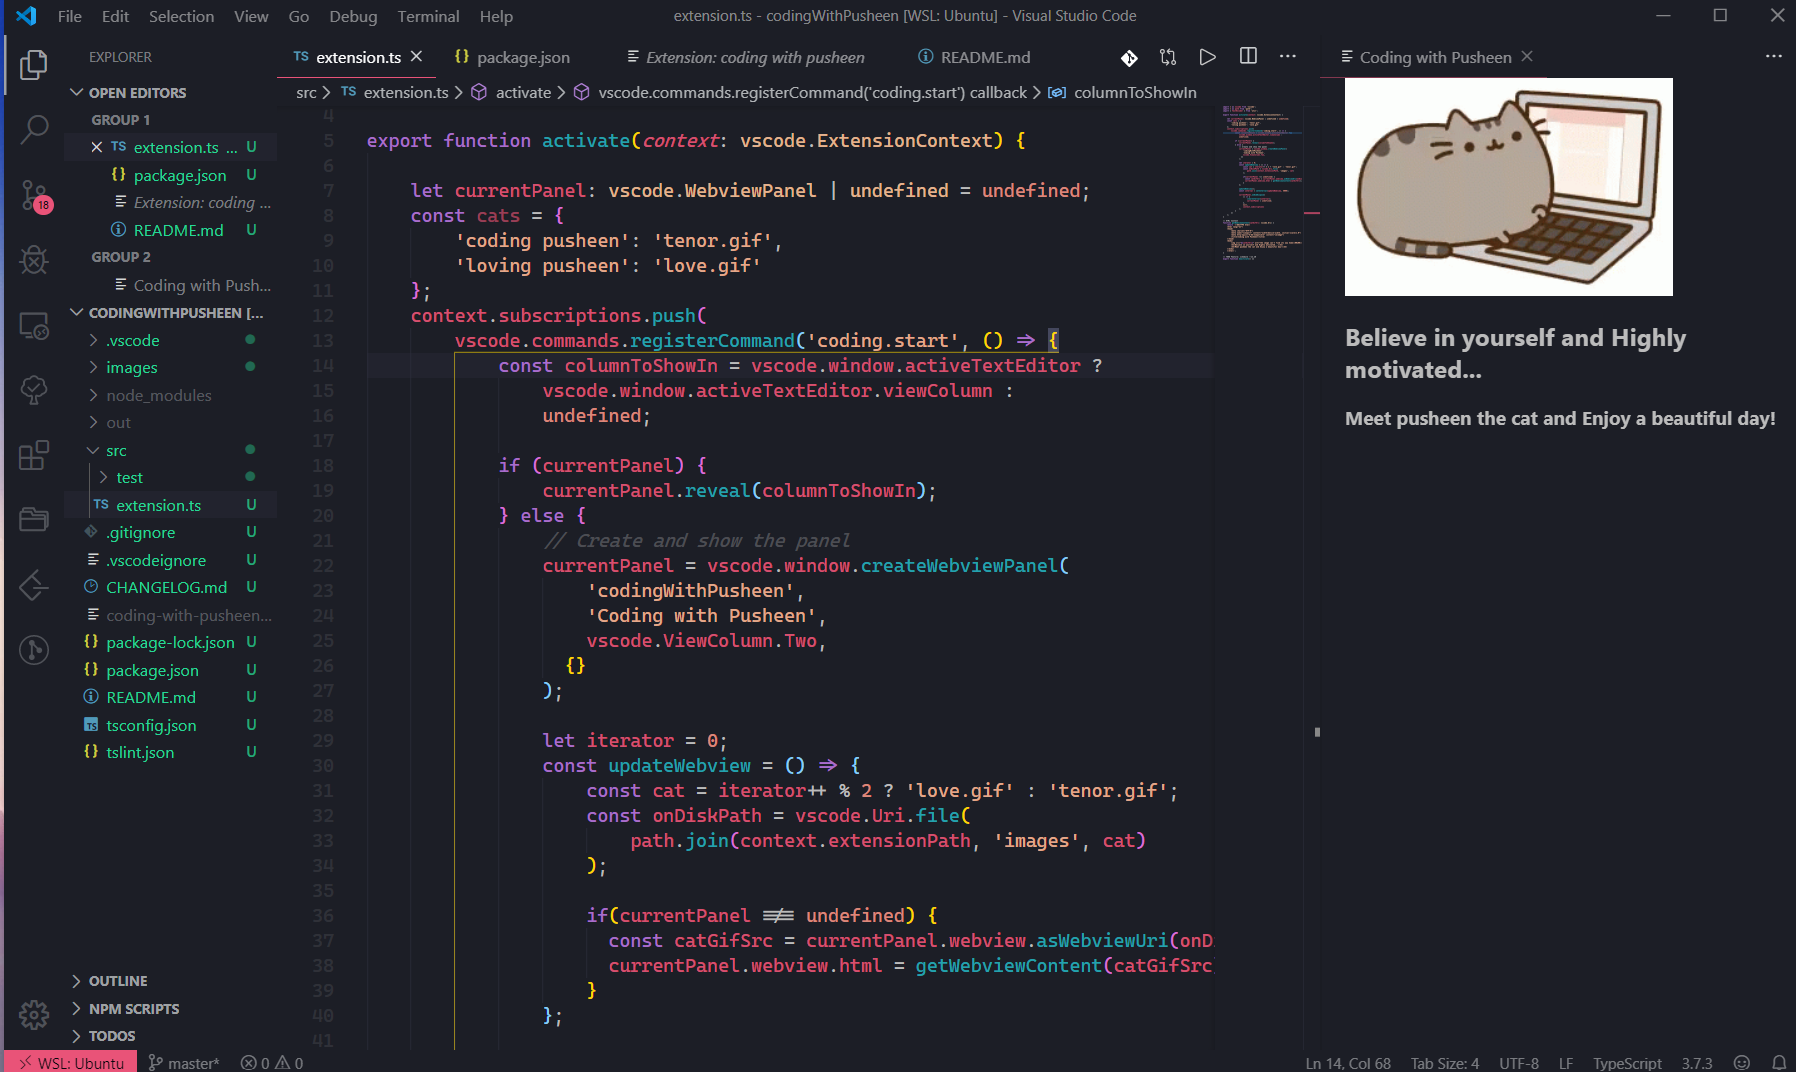
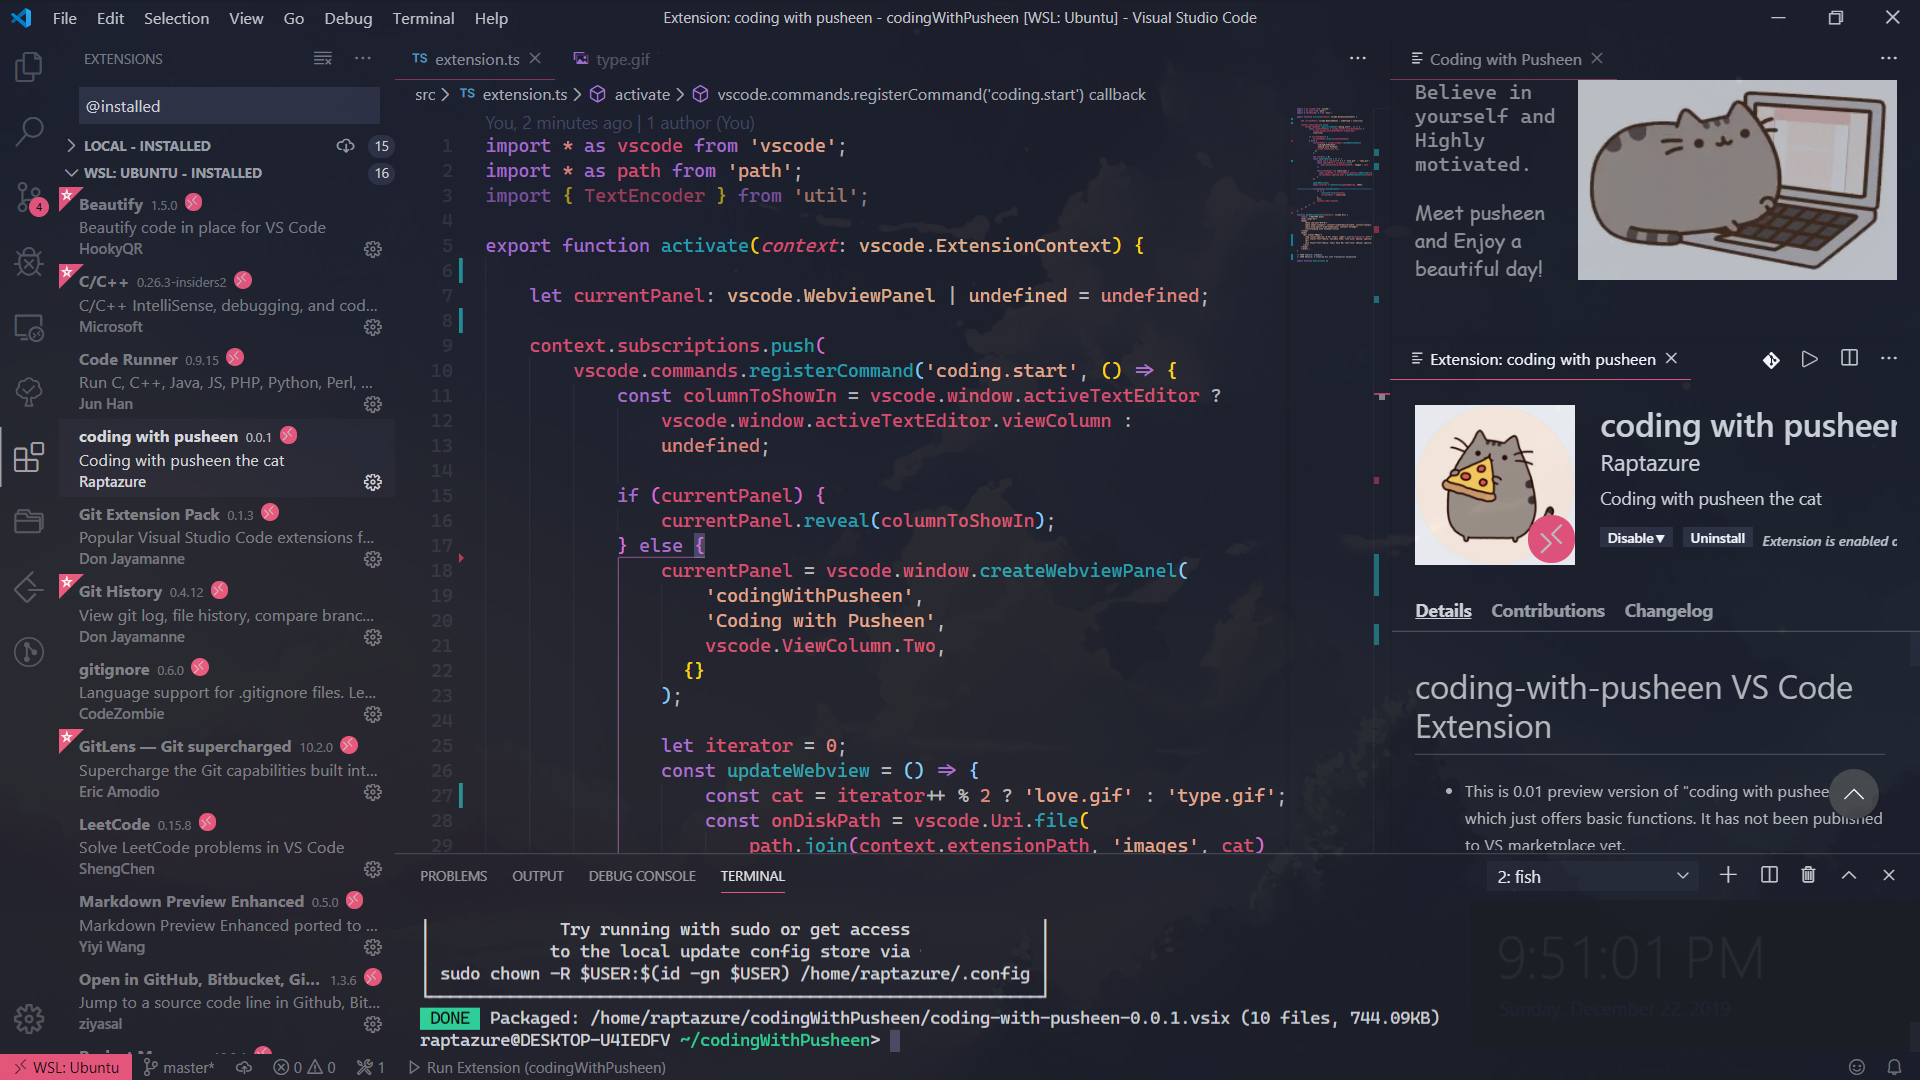
change display style

diff --git a/src/extension.ts b/src/extension.ts
@@ -3,12 +3,9 @@ import * as path from 'path';
 import { TextEncoder } from 'util';
 
 export function activate(context: vscode.ExtensionContext) {
-
+	
 	let currentPanel: vscode.WebviewPanel | undefined = undefined;
-	const cats = {
-		'coding pusheen': 'tenor.gif', 
-		'loving pusheen': 'love.gif'
-	};
+	
 	context.subscriptions.push(
 		vscode.commands.registerCommand('coding.start', () => {
 			const columnToShowIn = vscode.window.activeTextEditor ?
@@ -18,7 +15,6 @@ export function activate(context: vscode.ExtensionContext) {
 			if (currentPanel) {
 				currentPanel.reveal(columnToShowIn);
 			} else {
-				// Create and show the panel
 				currentPanel = vscode.window.createWebviewPanel(
 					'codingWithPusheen',
 					'Coding with Pusheen',
@@ -28,7 +24,7 @@ export function activate(context: vscode.ExtensionContext) {
 				
 				let iterator = 0;
 				const updateWebview = () => {
-					const cat = iterator++ % 2 ? 'love.gif' : 'tenor.gif';
+					const cat = iterator++ % 2 ? 'love.gif' : 'type.gif';
 					const onDiskPath = vscode.Uri.file(
 						path.join(context.extensionPath, 'images', cat)
 					);
@@ -55,7 +51,6 @@ export function activate(context: vscode.ExtensionContext) {
 	);
 }
 
-// HTML Content
 function getWebviewContent(catGifSrc: vscode.Uri) {
 	return `<!DOCTYPE html>
 	<html lang="en">
@@ -66,12 +61,17 @@ function getWebviewContent(catGifSrc: vscode.Uri) {
 		<title>Coding with Pusheen</title>
 	</head>
 	<body>
-		<img src="${catGifSrc}" alt="the image can't find its way home/(ㄒoㄒ)/~~">
-		<h2>Believe in yourself and Highly motivated...</h2>
-		<h3>Meet pusheen the cat and Enjoy a beautiful day!</h3>
+	  <div width="800px">
+		<img style="opacity: 0.75; float: right;" src="${catGifSrc}" alt="the image can't find its way home /(ㄒoㄒ)/" width="255" height="160">
+		<div style="font-family: Cascadia Code; font-size: medium; opacity: 0.75">Believe in yourself and Highly motivated.</div>
+		<br>
+		<div style="font-family: Comic Sans MS; font-size: medium; opacity: 0.75">Meet pusheen and Enjoy a beautiful day!</div>
+	  </div>
 	</body>
 	</html>`;
 }
 
-// TODO Feature: schedule --12.20
+// TODO Feature: Schedule
+// TODO Feature: A floating div with transparent background
+
 export function deactivate() {}
